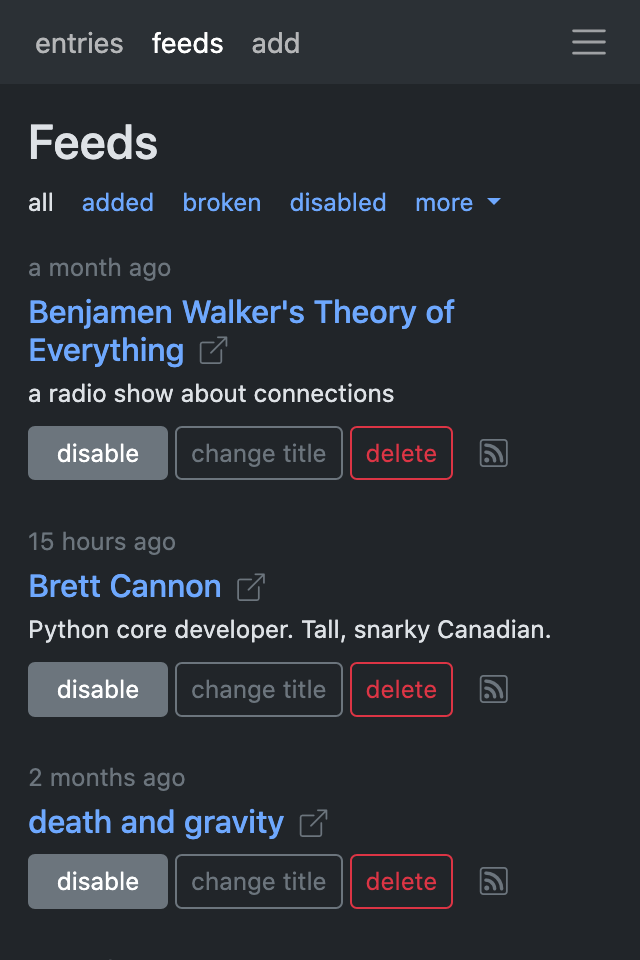
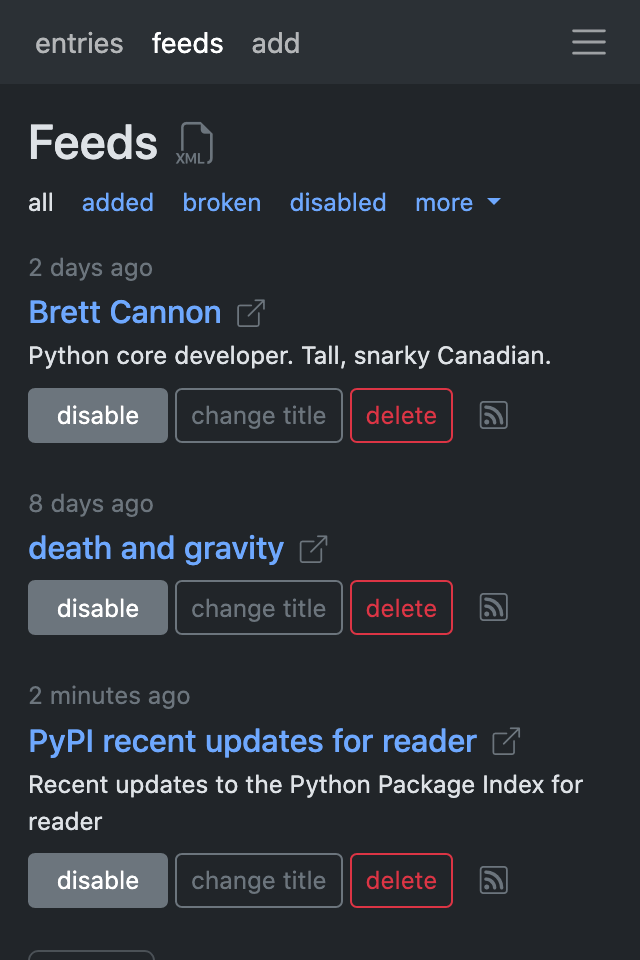
OPML import/export user guide, screenshots, and changelog. #165

diff --git a/docs/guide.rst b/docs/guide.rst
@@ -705,35 +705,32 @@ you can delete entries using the low-level
 
 
 
-.. _pagination:
+.. _opml:
 
-Pagination
-----------
+OPML import / export
+--------------------
 
-:meth:`~Reader.get_feeds`, :meth:`~Reader.get_entries`,
-and :meth:`~Reader.search_entries`
-can be used in a paginated fashion.
+You can import and export feeds from and to an `OPML subscription list`_
+by using the :meth:`~Reader.import_feeds`
+and :meth:`~Reader.export_feeds` methods::
 
-The ``limit`` argument allows limiting the number of results returned;
-the ``starting_after`` argument allows skipping results until after
-a specific one.
-
-To get the first page, use only ``limit``::
-
-    >>> for entry in reader.get_entries(limit=2):
-    ...     print(entry.title)
+    >>> export = reader.export_feeds()
+    >>> export.filename
+    'reader-feeds-2026-04-24-10-00-00.opml'
+    >>> with open(export.filename, 'wb') as f:
+    ...     f.write(export.content)
     ...
-    H.I. #136: Dog Bingo
-    H.I. #135: Place Your Bets
+    >>> # with another reader instance
+    >>> reader = make_reader(':memory:')
+    >>> with open(export.filename, 'rb') as f:
+    ...     reader.import_feeds(f)
 
-To get the next page, use the last result from a call as
-``starting_after`` in the next call::
+For more detailed control over which feeds are imported,
+see :meth:`~Reader.import_feeds_iter` and the :mod:`reader.opml` module.
 
-    >>> for entry in reader.get_entries(limit=2, starting_after=entry):
-    ...     print(entry.title)
-    ...
-    # H.I. 134: Boxing Day
-    Star Wars: The Rise of Skywalker, Hello Internet Christmas Special
+.. _OPML subscription list: https://opml.org/spec2.opml#subscriptionLists
+
+.. versionadded:: 3.23
 
 
 
@@ -828,6 +825,38 @@ Some examples of how this is useful:
 * Likewise, if you don't keep the entries around (e.g. append them to a list),
   memory usage should remain relatively constant
   regardless of the total number of entries returned.
+
+
+
+.. _pagination:
+
+Pagination
+----------
+
+:meth:`~Reader.get_feeds`, :meth:`~Reader.get_entries`,
+and :meth:`~Reader.search_entries`
+can be used in a paginated fashion.
+
+The ``limit`` argument allows limiting the number of results returned;
+the ``starting_after`` argument allows skipping results until after
+a specific one.
+
+To get the first page, use only ``limit``::
+
+    >>> for entry in reader.get_entries(limit=2):
+    ...     print(entry.title)
+    ...
+    H.I. #136: Dog Bingo
+    H.I. #135: Place Your Bets
+
+To get the next page, use the last result from a call as
+``starting_after`` in the next call::
+
+    >>> for entry in reader.get_entries(limit=2, starting_after=entry):
+    ...     print(entry.title)
+    ...
+    # H.I. 134: Boxing Day
+    Star Wars: The Rise of Skywalker, Hello Internet Christmas Special
 
 
 

diff --git a/CHANGES.rst b/CHANGES.rst
@@ -11,9 +11,10 @@ Version 3.23
 
 Unreleased
 
-* Add basic support for OPML subscription list import/export:
-  :mod:`reader.opml`.
-  (:issue:`165`)
+* Add support for :ref:`opml`. (:issue:`165`)
+
+  * Add support for import / export in the web app; :ref:`screenshots <screenshots-import>`.
+
 
 * Deprecate the :func:`~reader.utils.archive_entries` ``feed_user_title`` argument.
 

diff --git a/docs/app.rst b/docs/app.rst
@@ -62,6 +62,18 @@ Screenshots
 
     article view (light mode)
 
+.. _screenshots-import:
+
+.. figure:: screenshots/import-select.png
+    :width: 240px
+
+    import feeds (select)
+
+.. figure:: screenshots/import-result.png
+    :width: 240px
+
+    import feeds (result)
+
 
 
 Serving the web app

diff --git a/docs/dev.rst b/docs/dev.rst
@@ -32,7 +32,6 @@ in my spare time,
 but I will prioritize supporting :doc:`contributors <contributing>`
 (discussions, reviews and so on).
 
-* OPML support, :issue:`165`
 * :ref:`deleting entries <deleting entries>`
 
   * archiving important entries of deleted feeds, :issue:`290`
